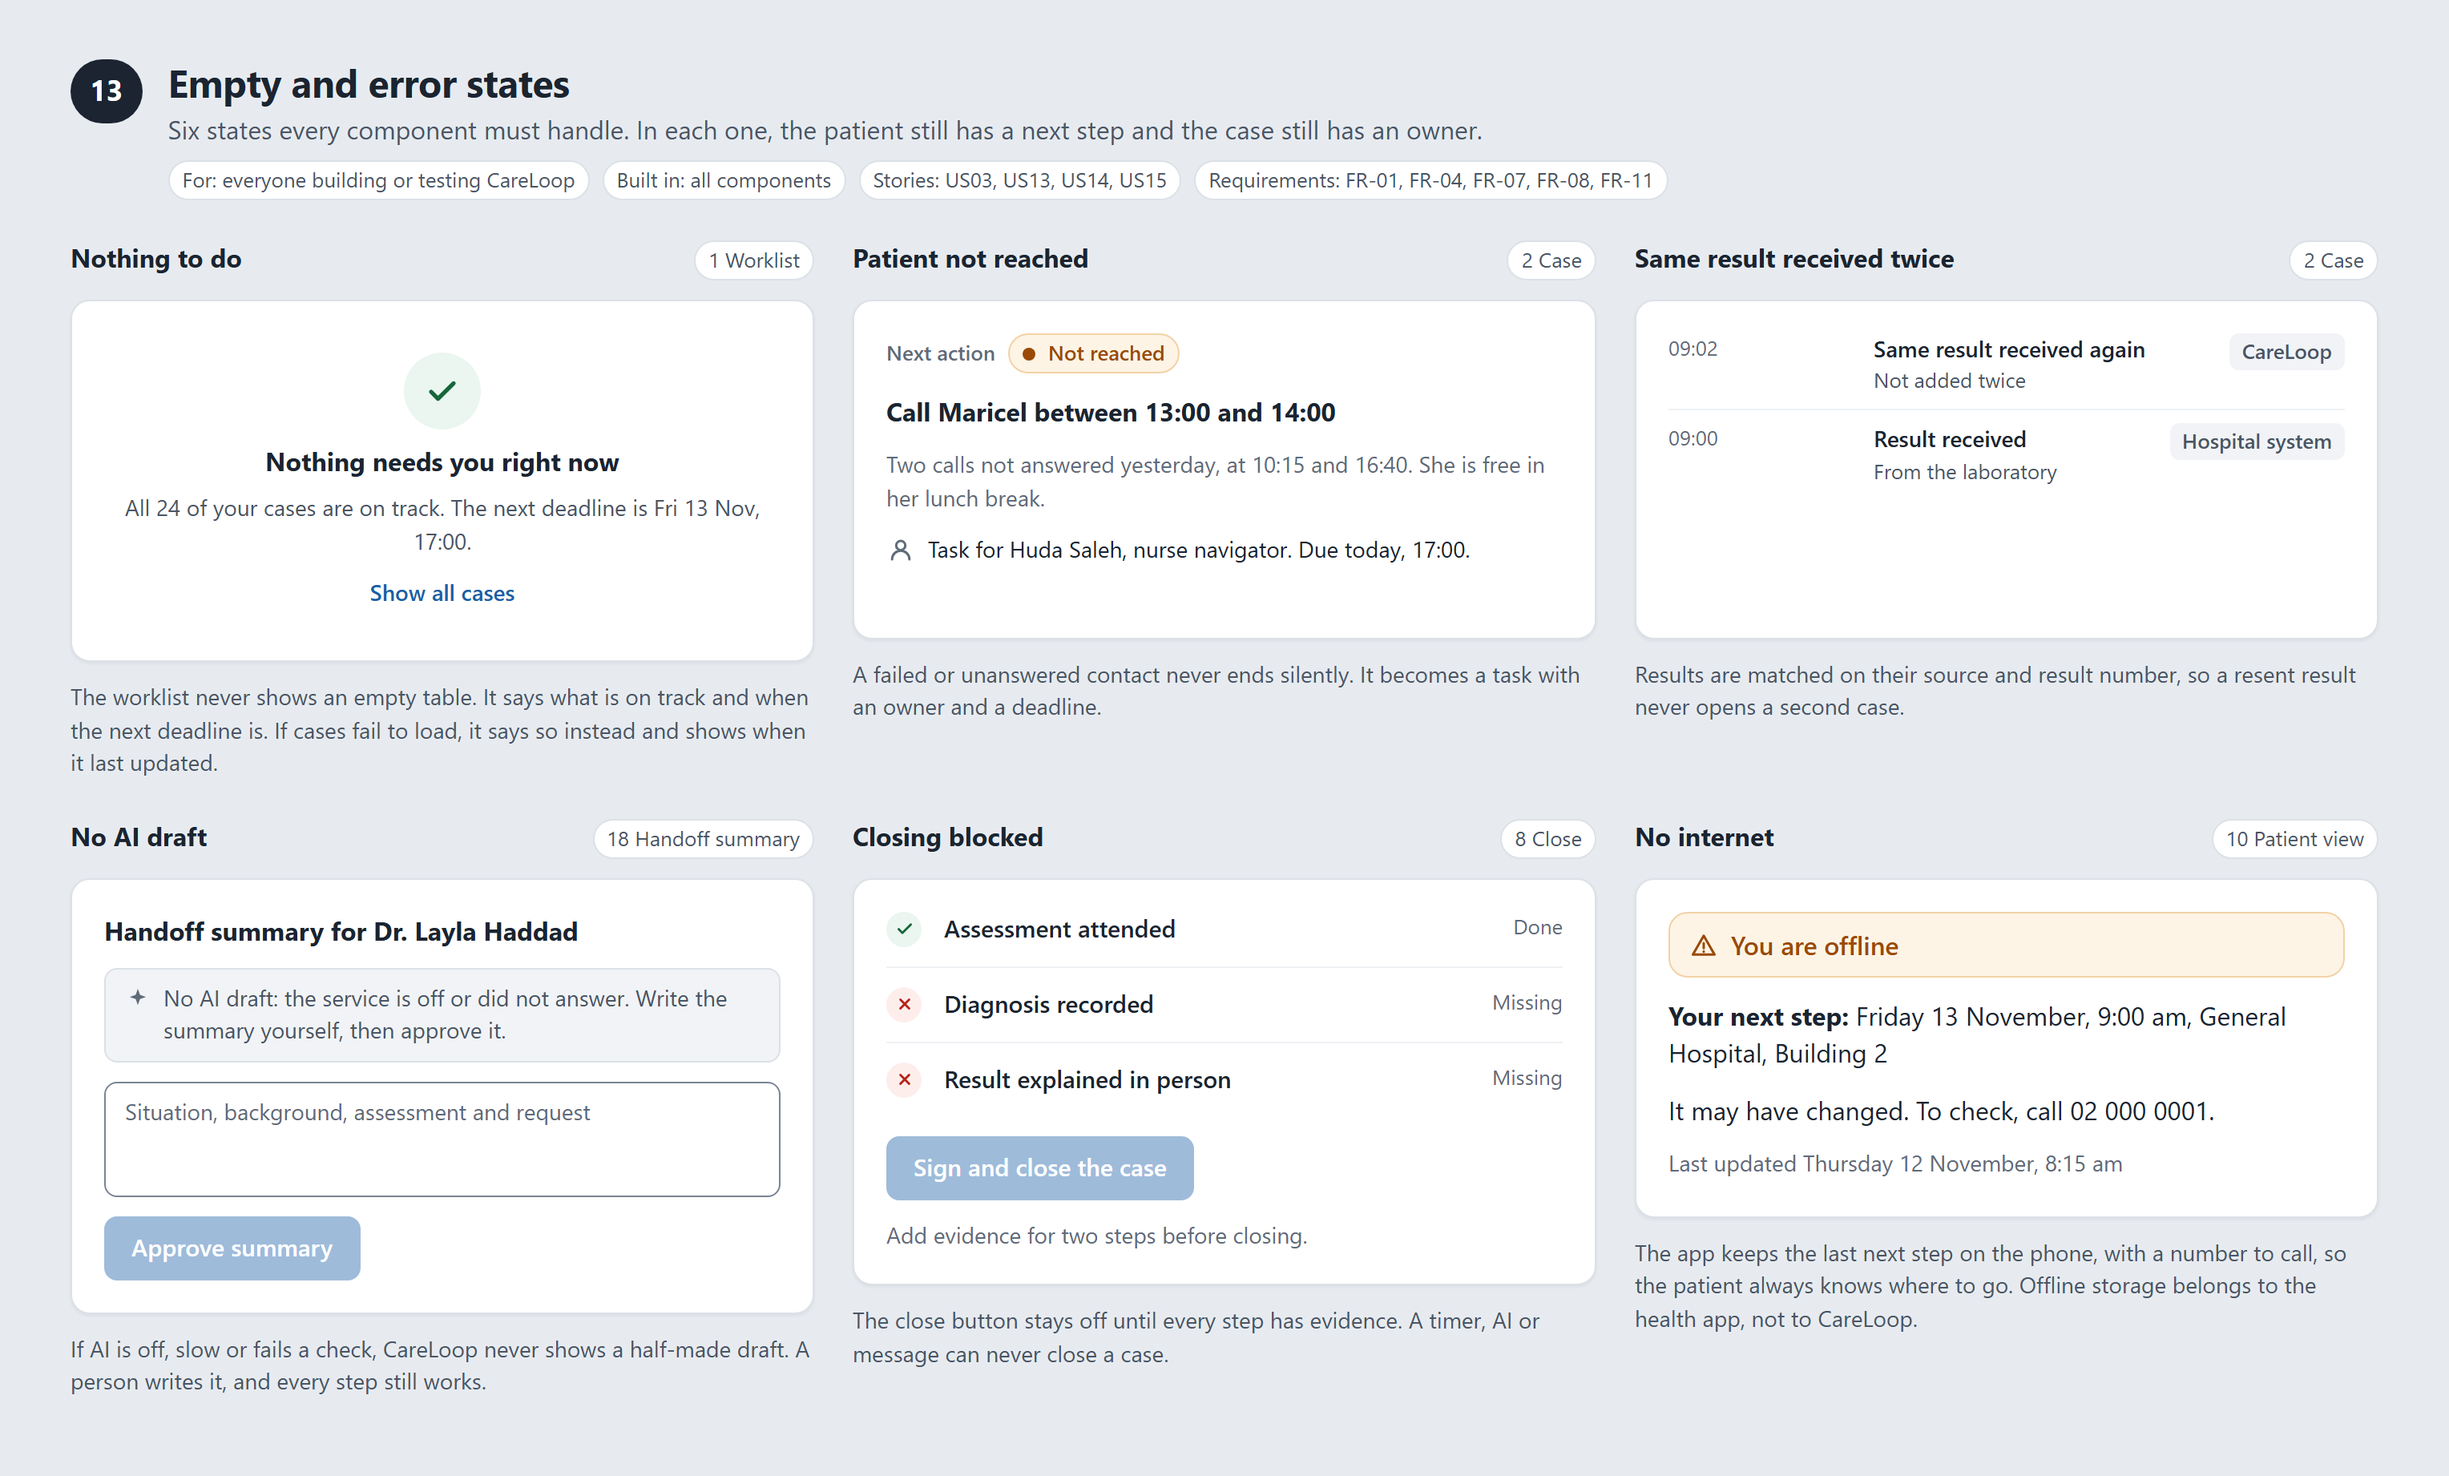
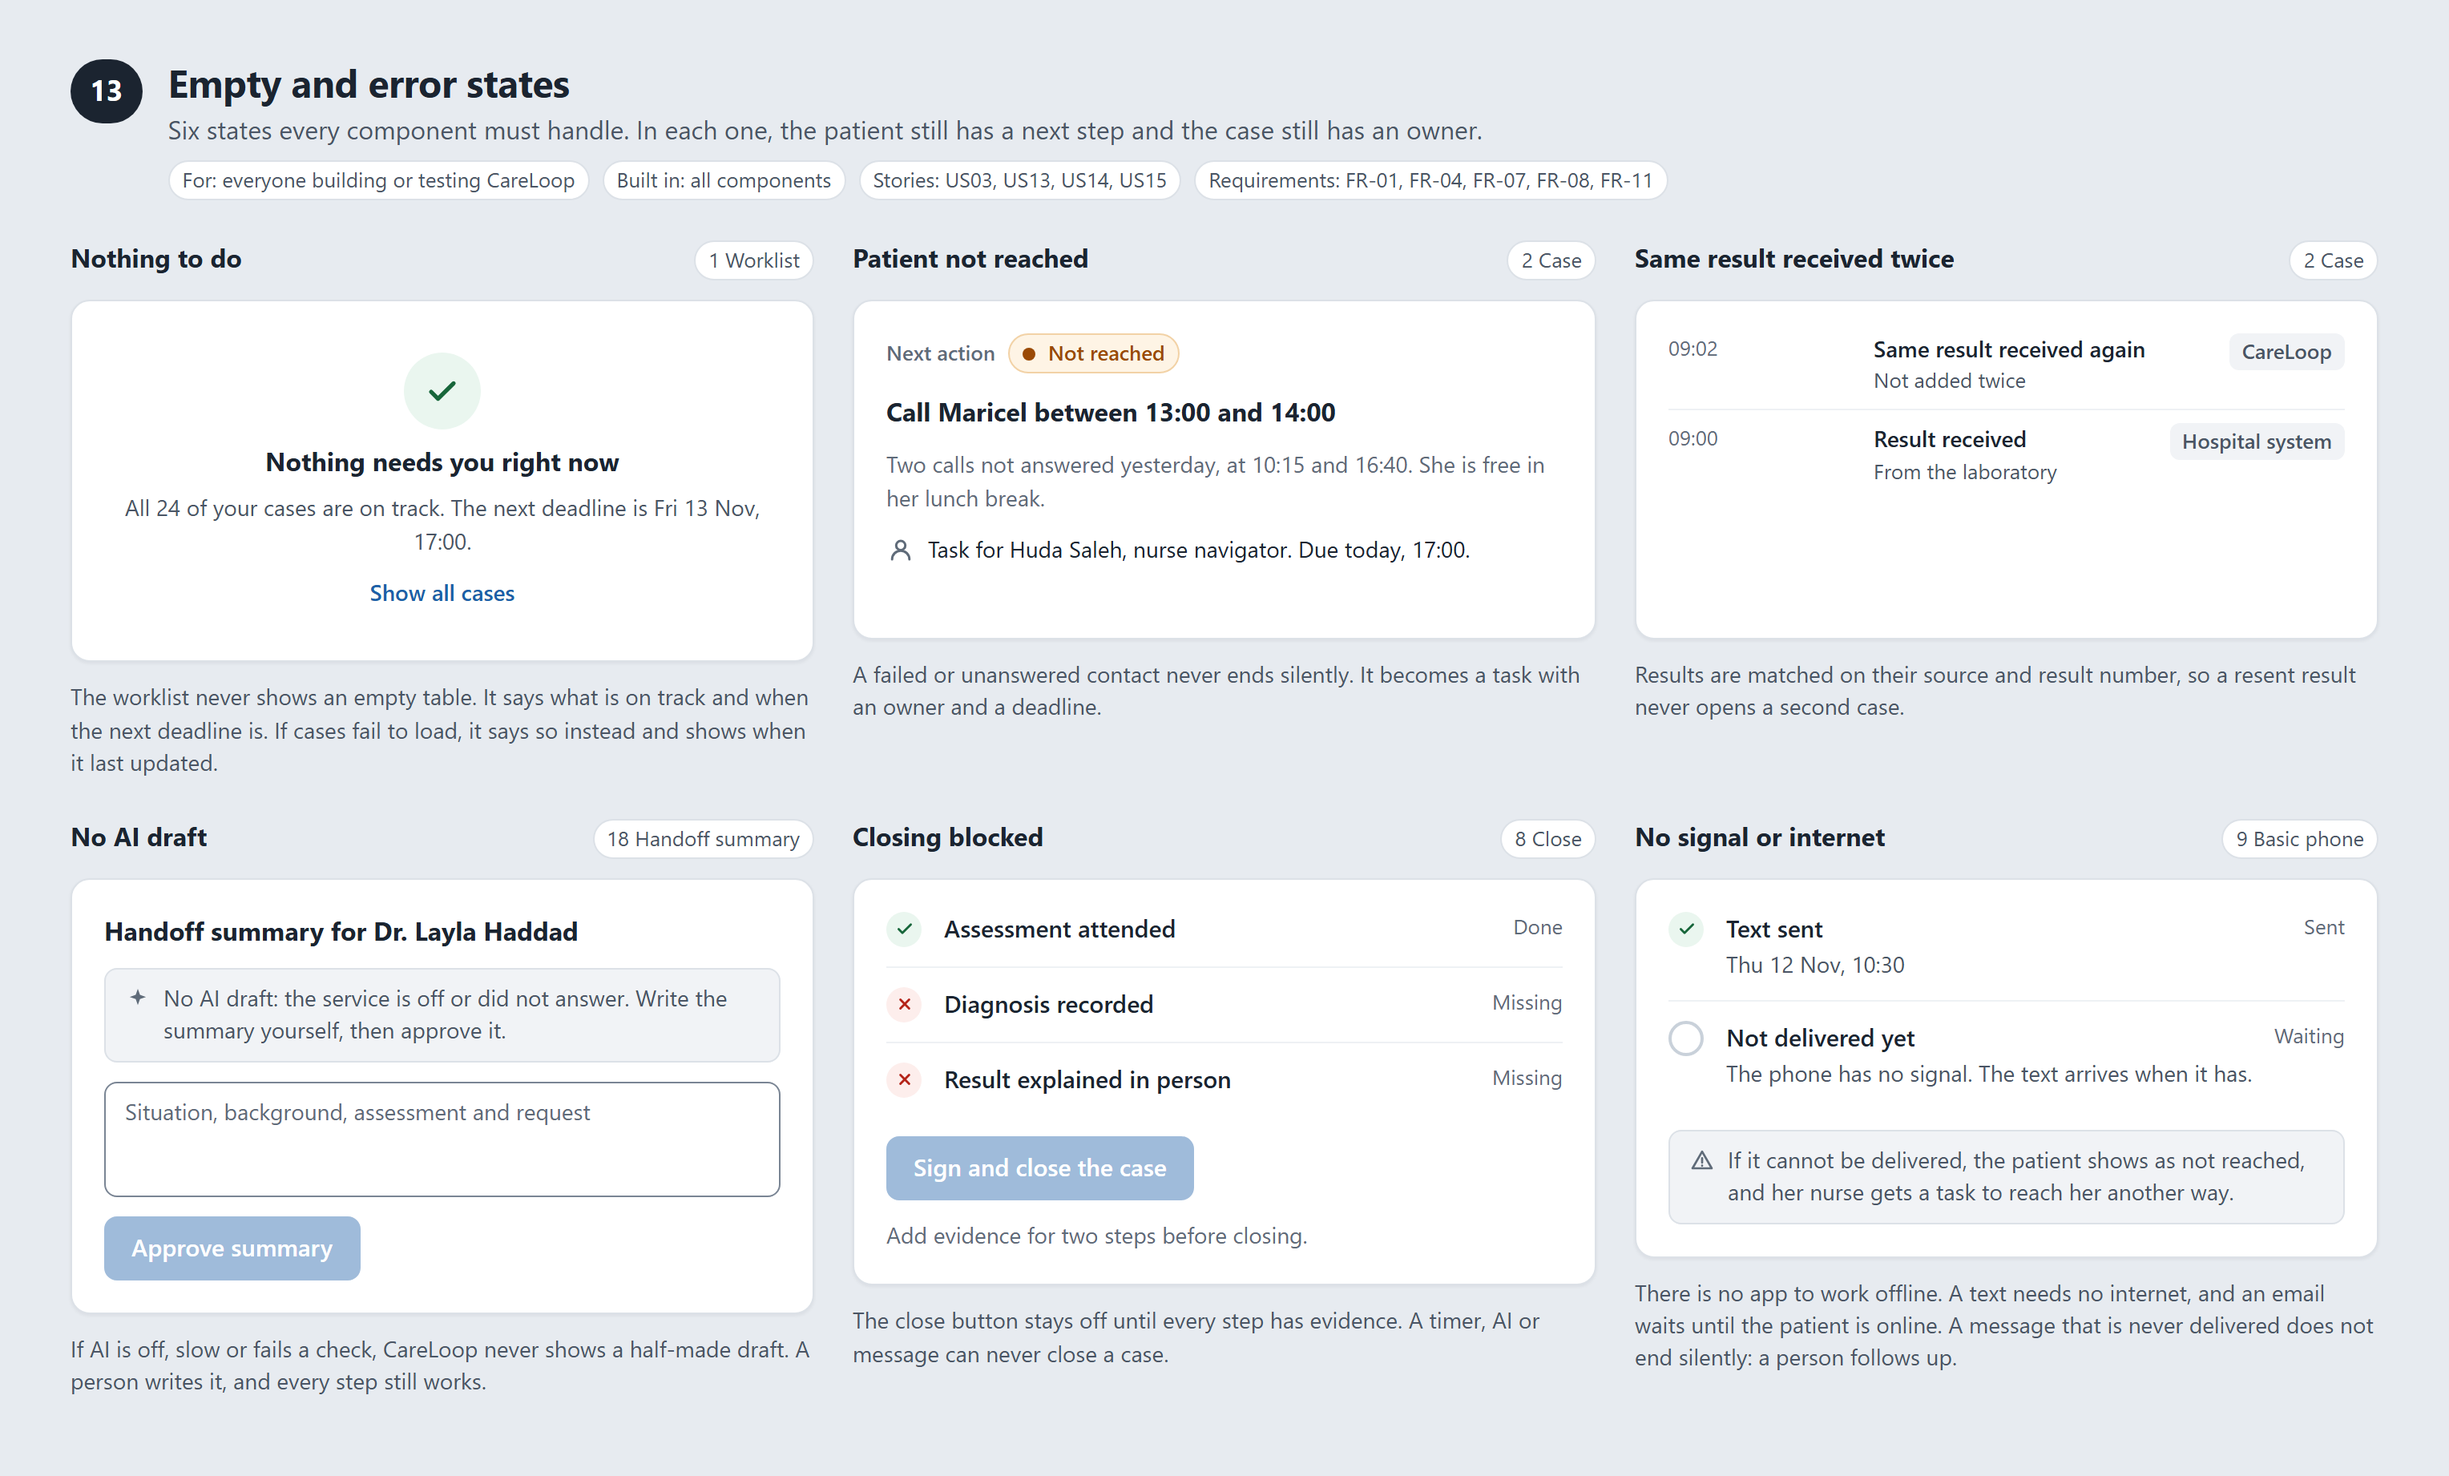
Replace the offline app state with no signal (P16)
There is no app to work offline. A text needs no internet and arrives when the phone has
signal; a message that cannot be delivered shows the patient as not reached and gives her
nurse a task to reach her another way (decision 21).

Changed region(s): [[0.6528, 0.6189, 0.9637, 0.9283], [0.6839, 0.557, 0.7772, 0.5879], [0.9015, 0.557, 0.9637, 0.5879]]

diff --git a/docs/ui-design/README.md b/docs/ui-design/README.md
@@ -306,7 +306,7 @@ Hessa's journey:
 | Same result received twice | Results are matched on source and result number, so a resent result never opens a second case. | FR-01 |
 | No AI draft | If AI is off, slow or fails a check, screen 18 shows no draft at all. A person writes the summary, and every step still works ([AI specification](../ai-design/ai-spec.md), section 5). | FR-11 |
 | Closing blocked | The close button stays off until every step has evidence. | FR-08 |
-| No internet | There is no app to work offline. A text message arrives when the phone has signal; a message that cannot be delivered raises `Unreachable` and a person follows up (P16). | FR-04 |
+| No signal or internet | There is no app to work offline. A text needs no internet and arrives when the phone has signal; an email arrives when the patient is next online. A message that cannot be delivered raises `Unreachable`, shown as not reached, and her nurse gets a task to reach her another way (P16). | FR-04 |
 
 ### 15. First visit
 
